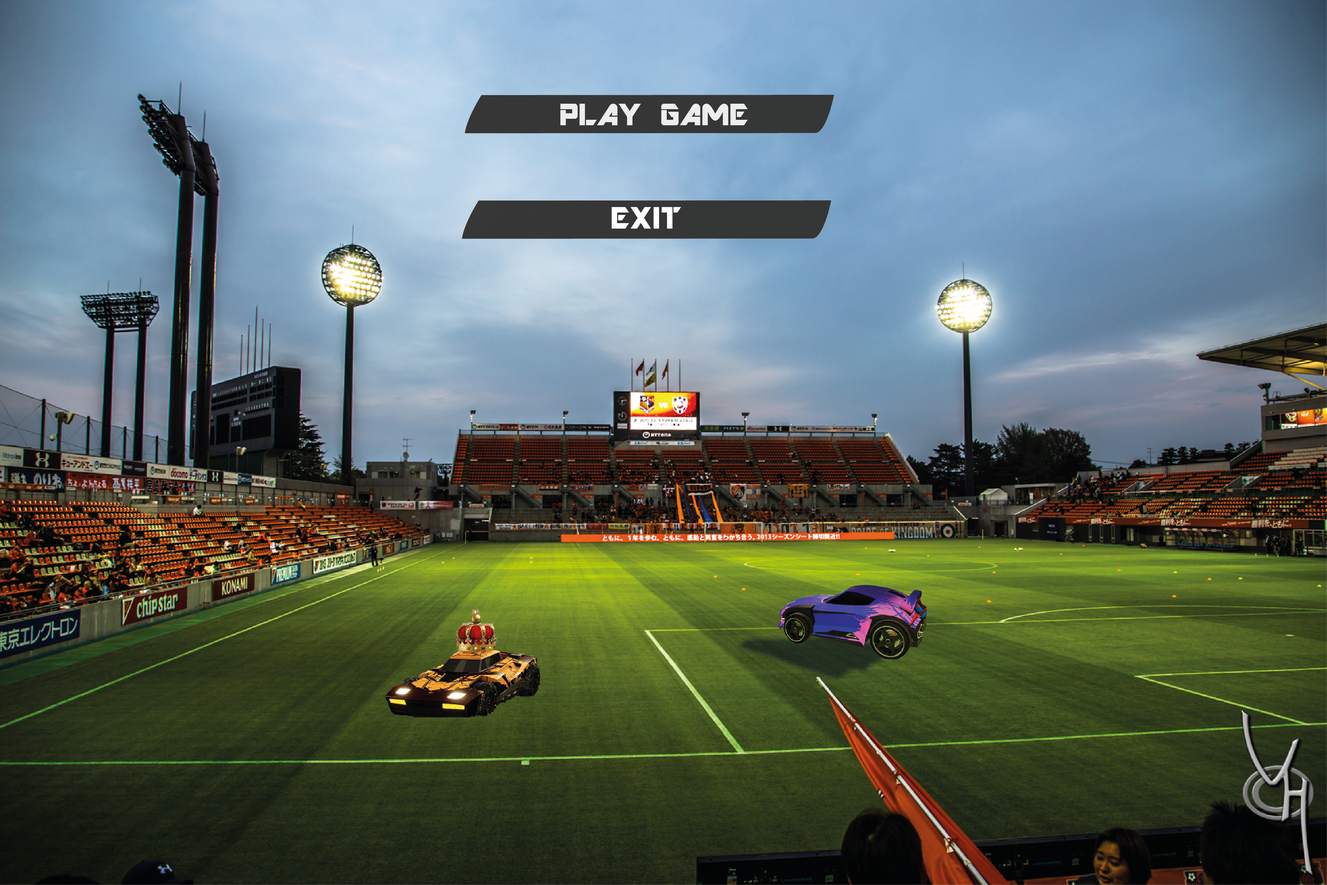
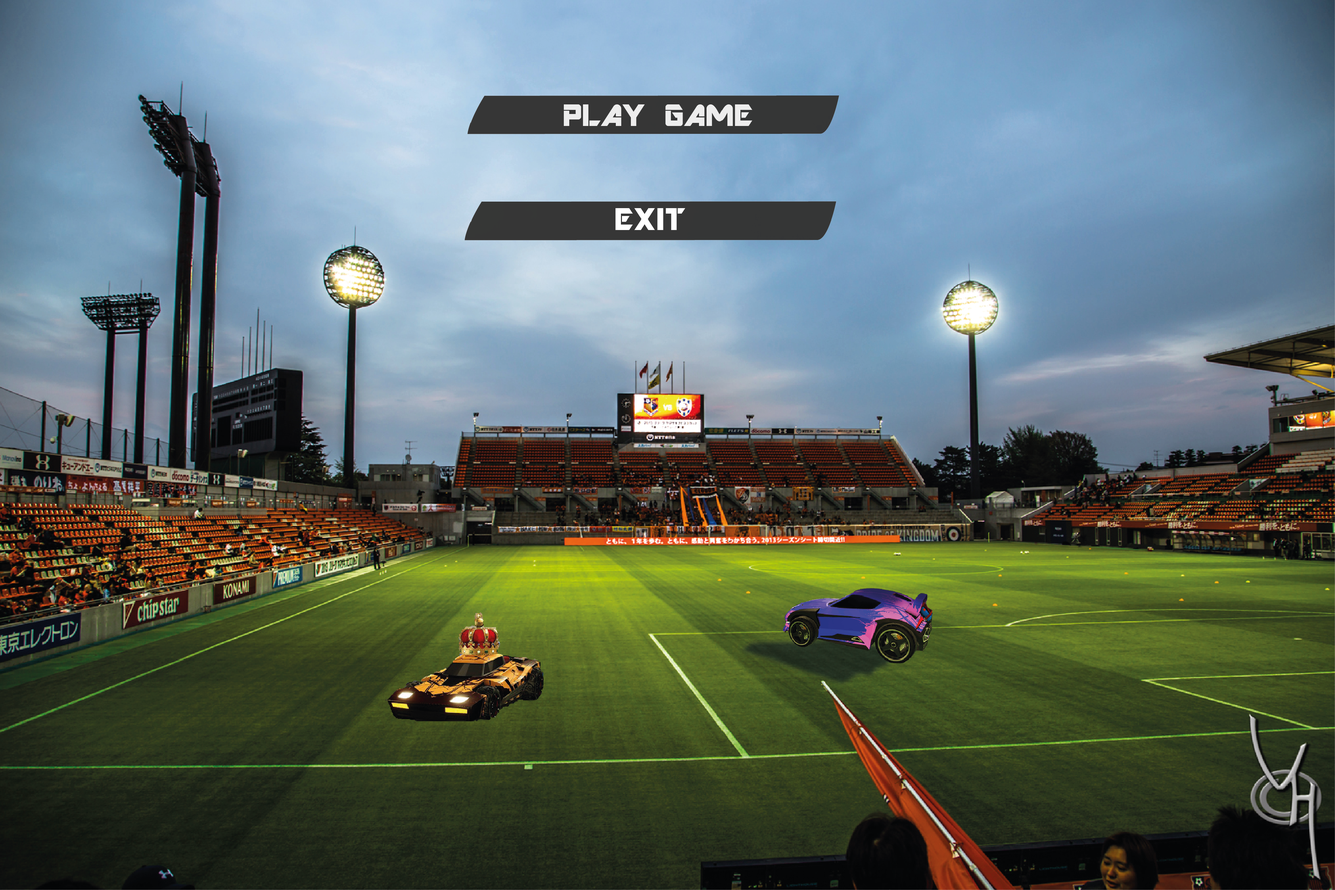
ajout terrain

diff --git a/src/Menu.c b/src/Menu.c
@@ -1,10 +1,12 @@
 #include "../include/Menu.h"
-#define DURATION_TIME 300000
+#define DURATION_TIME 180000
 
 #define PATH_TEXTURE_DEBUT "./images/menu_deb.png"
 #define PATH_TEXTURE_FIN "./images/menu_fin.png"
 #define PATH_TEXTURE_PAUSE "./images/menu_pause.png"
 #define PATH_TEXTURE_DEBUT_BTN_1 "./images/menu_deb_button1.png"
+// #define PATH_TEXTURE_DEBUT_TER_1 "./images/menu_deb_terrain1.png"
+// #define PATH_TEXTURE_DEBUT_TER_2 "./images/menu_deb_terrain2.png"
 #define PATH_TEXTURE_FIN_BTN_1 "./images/menu_fin_button1.png"
 #define PATH_TEXTURE_PAUSE_BTN_1 "./images/menu_pause_button1.png"
 #define PATH_TEXTURE_DEBUT_BTN_2 "./images/menu_deb_button2.png"
@@ -61,6 +63,8 @@ bool MakeMenu(int width, int height, Menu* menu, TypeMenu type) {
 		menu->texture = loadImage(PATH_TEXTURE_DEBUT);
 		menu->texture_btn1 = loadImage(PATH_TEXTURE_DEBUT_BTN_1);
 		menu->texture_btn2 = loadImage(PATH_TEXTURE_DEBUT_BTN_2);
+		// menu->texture_ter1 = loadImage(PATH_TEXTURE_DEBUT_TER_1);
+		// menu->texture_ter2 = loadImage(PATH_TEXTURE_DEBUT_TER_2);
 		break;
 
 	case pause:
@@ -135,6 +139,16 @@ bool IsOnButton1(int x, int y) {
 			&& y <= POS_BTN1_BOTTOM);
 }
 
+// bool IsOnTerrain1(int x, int y) {
+// 	return (x >= 255 && x <= 567 && y >= 291
+// 			&& y <= 409);
+// }
+
+// bool IsOnTerrain2(int x, int y) {
+// 	return (x >= 677 && x <= 903 && y >= 291
+// 			&& y <= 409);
+// }
+
 bool LoopMenu(Menu* menu){
 
 	GLuint texture = menu->texture;
@@ -184,6 +198,11 @@ bool LoopMenu(Menu* menu){
 					texture = menu->texture_btn1;
 					//printf("PLAY\n");
 				}
+				// else if (IsOnTerrain1(souris_x,souris_y)) {
+				// 	texture = menu->texture_ter1;
+				// } else if (IsOnTerrain2(souris_x,souris_y)) {
+				// 	texture = menu->texture_ter2;
+				// }
 
 				else {
 					texture = menu->texture;
@@ -202,6 +221,7 @@ bool LoopMenu(Menu* menu){
 
 			case SDL_MOUSEBUTTONDOWN:
 				//printf("souris-x en %d     souris_y en %d\n", souris_x, souris_y);
+				// if ((IsOnButton1(souris_x, souris_y) || IsOnTerrain1(souris_x,souris_y) || IsOnTerrain2(souris_x,souris_y)) && menu->game != NULL) {
 				if (IsOnButton1(souris_x, souris_y) && menu->game != NULL) {
 					switch (menu->type){
 						case debut :

diff --git a/src/Level.c b/src/Level.c
@@ -9,7 +9,8 @@
 #define DEFAULT_BALL_POS_X 0.
 #define DEFAULT_BALL_POS_Y 0.
 #define DEFAULT_BALL_RADIUS 2.
-#define DEFAULT_TERRAIN_TEXTURE_PATH "images/terrain2.jpg"
+#define DEFAULT_TERRAIN_TEXTURE_PATH "images/terrain1.png"
+#define DEFAULT_TERRAIN_TEXTURE2_PATH "images/terrain2.png"
 #define DEFAULT_BALL_TEXTURE_PATH "images/ballon.png"
 #define NB_TEXTURE 3
 
@@ -21,7 +22,7 @@ bool camera_is_in_work = false;
 
 
 
-bool MakeLevel(Level* l, char* nameFichTerrain, int duration) {
+bool MakeLevel(Level* l, char* nameFichTerrain, int duration, int numLevel) {
 	if (l == NULL) {
 		printf("Impossible de créer le level, pointeur non alloué\n");
 		return false;
@@ -33,6 +34,11 @@ bool MakeLevel(Level* l, char* nameFichTerrain, int duration) {
 	Vehicule *vp2 = (Vehicule *) malloc(sizeof(Vehicule));
 	GLuint imageBallon = loadImage(DEFAULT_BALL_TEXTURE_PATH);
 	GLuint textureIdTerrain = loadImage(DEFAULT_TERRAIN_TEXTURE_PATH);
+
+	if(numLevel==1) {
+		textureIdTerrain = loadImage(DEFAULT_TERRAIN_TEXTURE2_PATH);
+	}
+
 	Camera *cam = (Camera *) malloc(sizeof(Camera));
 
 	char terrainTxt[30] = "./levels/";

diff --git a/src/Game.c b/src/Game.c
@@ -4,7 +4,7 @@
 #include "../include/Menu.h"
 
 #define NB_MAX_LEVEL 30
-#define NB_LEVEL 1
+#define NB_LEVEL 2
 
 
 bool MakeGame(Game* game, int duration){
@@ -16,7 +16,7 @@ bool MakeGame(Game* game, int duration){
 
 
 	game->levels = (Level **) malloc(NB_MAX_LEVEL*sizeof(Level*));
-	game->nbLevels = 0;
+	game->nbLevels = 0 ;
 	game->duration = duration;
 
 	int i;
@@ -31,6 +31,7 @@ bool MakeGame(Game* game, int duration){
 }
 
 bool AddLevel(Game* game, char* nameFichTerrain){
+
 	if(!game || !nameFichTerrain)
         return false;
 	if(game->nbLevels == NB_MAX_LEVEL){
@@ -40,7 +41,7 @@ bool AddLevel(Game* game, char* nameFichTerrain){
     int id = game->nbLevels;
 	game->levels[id] = (Level *) malloc(sizeof(Level));
 
-	if(!MakeLevel(game->levels[id], nameFichTerrain, game->duration)){
+	if(!MakeLevel(game->levels[id], nameFichTerrain, game->duration, game->nbLevels)){
 		printf("Probleme makeLevel dans AddLevel\n");
         return false ;
 	}

diff --git a/include/Level.h b/include/Level.h
@@ -39,7 +39,7 @@ typedef struct {
 	int duration;
 } Level;
 
-bool MakeLevel(Level *l, char* nameFichTerrain, int duration);
+bool MakeLevel(Level* l, char* nameFichTerrain, int duration, int numLevel);
 
 //verifie si il y a eu une colision entre les éléments
 //Ajouter des scores si but etc...

diff --git a/include/Menu.h b/include/Menu.h
@@ -30,6 +30,8 @@ typedef	struct {
 	GLuint texture;
 	GLuint texture_btn1;
 	GLuint texture_btn2;
+    // GLuint texture_ter1;
+    // GLuint texture_ter2;
 }Menu;
 
 bool MakeMenu(int width, int height, Menu* menu, TypeMenu type);
